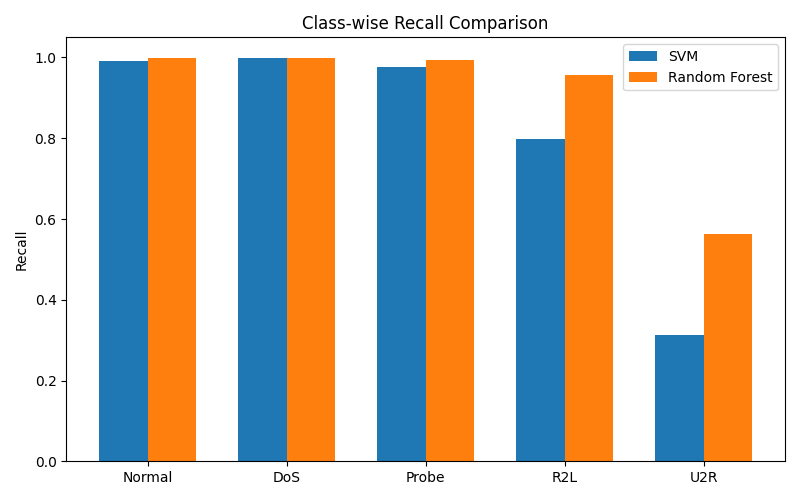
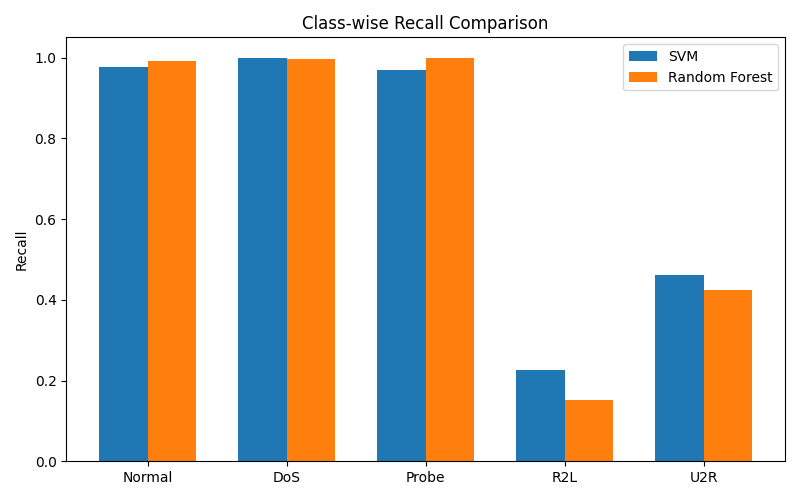
Refactored model training to use separate kdd_train.csv and kdd_test.csv with proper feature alignment

diff --git a/main.py b/main.py
@@ -15,7 +15,8 @@ from sklearn.metrics import classification_report
 
 
 
-df=pd.read_csv(r"kdd_train.csv")
+df_train=pd.read_csv(r"kdd_train.csv")
+df_test=pd.read_csv(r"kdd_test.csv")
 # print(df.head())
 # print(df.columns)
 # print(df['labels'].unique())
@@ -31,21 +32,39 @@ attack_map = {
     'buffer_overflow': 'U2R', 'loadmodule': 'U2R', 'perl': 'U2R', 'rootkit': 'U2R',
     'normal': 'Normal'
 }
-df['attack_class'] = df['labels'].map(attack_map)
+# Remove trailing dot if present
+df_train['labels'] = df_train['labels'].str.strip('.')
+df_test['labels'] = df_test['labels'].str.strip('.')
+
+# Apply mapping
+df_train['attack_class'] = df_train['labels'].map(attack_map)
+df_test['attack_class'] = df_test['labels'].map(attack_map)
+
+# Drop any unmapped rows (safety)
+df_train = df_train.dropna(subset=['attack_class'])
+df_test = df_test.dropna(subset=['attack_class'])
+
+
 #print(df['attack_class'].value_counts())
-y = df['attack_class']
-X = df.drop(['labels', 'attack_class'], axis=1)
+y_train = df_train['attack_class']
+X_train = df_train.drop(['labels', 'attack_class'], axis=1)
+
+y_test = df_test['attack_class']
+X_test = df_test.drop(['labels', 'attack_class'], axis=1)
+
 # print("\nFeature matrix shape:", X.shape)
 # print("Target vector shape:", y.shape)
 
 
 categorical_cols = ['protocol_type', 'service', 'flag']
-X_encoded = pd.get_dummies(X, columns=categorical_cols)
+
+X_train = pd.get_dummies(X_train, columns=categorical_cols)
+X_test = pd.get_dummies(X_test, columns=categorical_cols)
+
 # print("Before encoding shape:", X.shape)
 # print("After encoding shape:", X_encoded.shape)
-X_train, X_test, y_train, y_test = train_test_split(
-    X_encoded, y, test_size=0.3, random_state=42, stratify=y
-)
+X_test = X_test.reindex(columns=X_train.columns, fill_value=0)
+
 scaler = StandardScaler()
 
 X_train_scaled = scaler.fit_transform(X_train)
@@ -57,8 +76,9 @@ svm_model = SVC(kernel='rbf', C=1.0, gamma='scale')
 print("\nTraining SVM model...")
 svm_model.fit(X_train_scaled, y_train)
 print("SVM training completed.")
-print("\nTesting SVM model...")
 y_pred_svm = svm_model.predict(X_test_scaled)
+print("\nTesting SVM model...")
+
 
 svm_accuracy = accuracy_score(y_test, y_pred_svm)
 print("\nSVM Accuracy:", svm_accuracy)
@@ -83,12 +103,21 @@ plt.savefig("svm_confusion_matrix.png")
 plt.close()
 
 
-rf_model = RandomForestClassifier(n_estimators=200,max_depth=20,class_weight='balanced',random_state=42,n_jobs=-1)
+rf_model = RandomForestClassifier(
+    n_estimators=200,
+    max_depth=20,
+    class_weight='balanced',
+    random_state=42,
+    n_jobs=-1
+)
 print("\nTraining Random Forest model...")
 rf_model.fit(X_train, y_train)
 print("Random Forest training completed.")
 print("\nTesting Random Forest model...")
 y_pred_rf = rf_model.predict(X_test)
+
+
+
 rf_accuracy = accuracy_score(y_test, y_pred_rf)
 print("\nRandom Forest Accuracy:", rf_accuracy)
 cm_rf = confusion_matrix(y_test, y_pred_rf)
@@ -144,7 +173,7 @@ plt.bar(models, accuracies, color=['steelblue', 'orange'])
 plt.title("Model Accuracy Comparison")
 plt.xlabel("Model")
 plt.ylabel("Accuracy")
-plt.ylim(0.98, 1.0)  # zoomed since values are high
+plt.ylim(0.95,0.97)  # zoomed since values are high
 plt.tight_layout()
 
 plt.savefig("accuracy_comparison.png")
